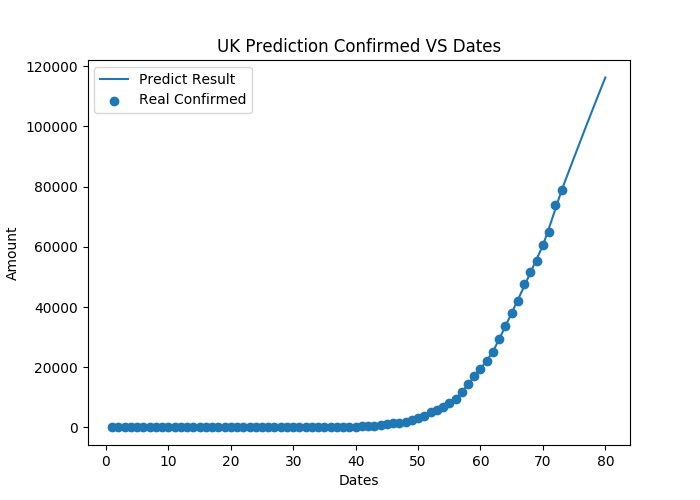
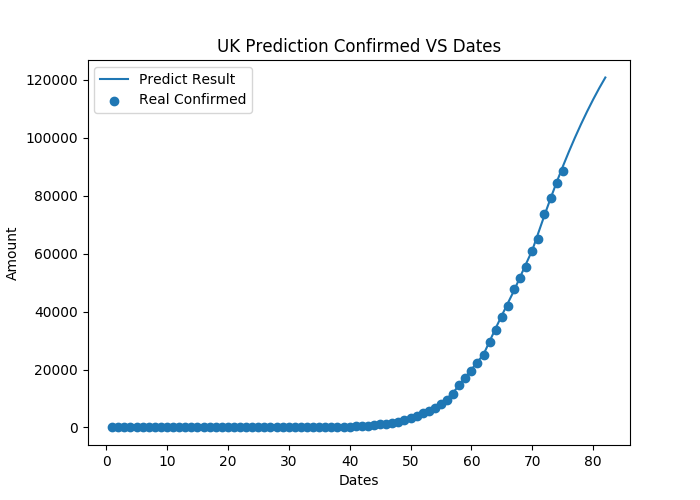
update prediction

diff --git a/mlp_uk.py b/mlp_uk.py
@@ -145,7 +145,7 @@ for each in each_data:
     uk_comfirmed_data.append(each['confirmed'])
 
 # add uk latest data manually
-uk_comfirmed_data.append(78991)
+uk_comfirmed_data.append(88621)
 
 uk_date_length = len(uk_comfirmed_data)
 uk_dates = list(range(1, uk_date_length + 1))
@@ -154,7 +154,7 @@ uk_comfirmed_data = np.array(uk_comfirmed_data)
 uk_dates = np.array(uk_dates)
 
 # increase absorb value
-uk_absorb_amount = uk_comfirmed_data[uk_date_length-1]*2.4
+uk_absorb_amount = uk_comfirmed_data[uk_date_length-1]*2
 
 uk_comfirmed_data_norm = uk_comfirmed_data / uk_absorb_amount
 
